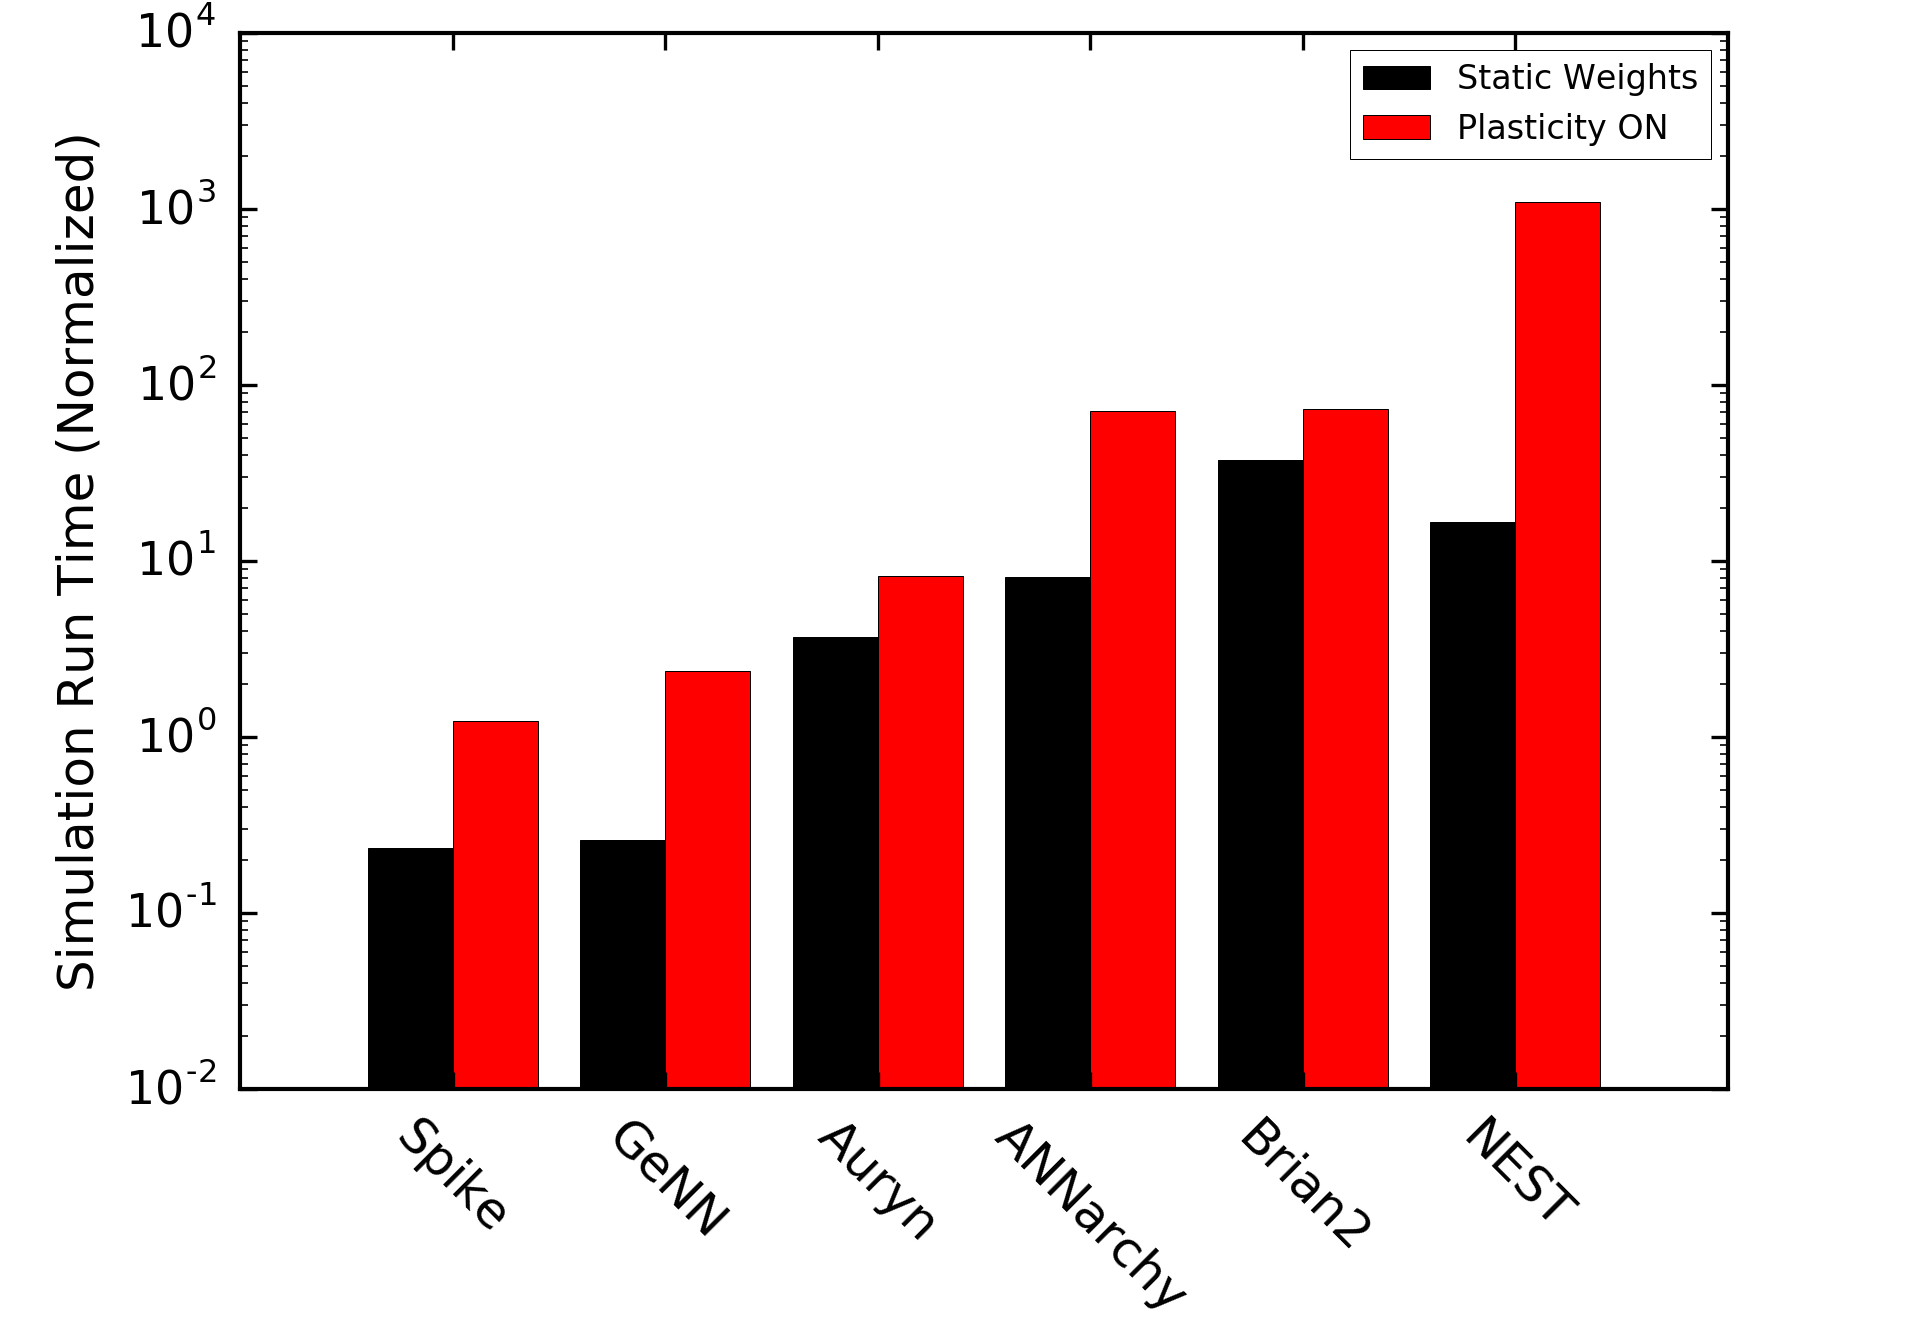
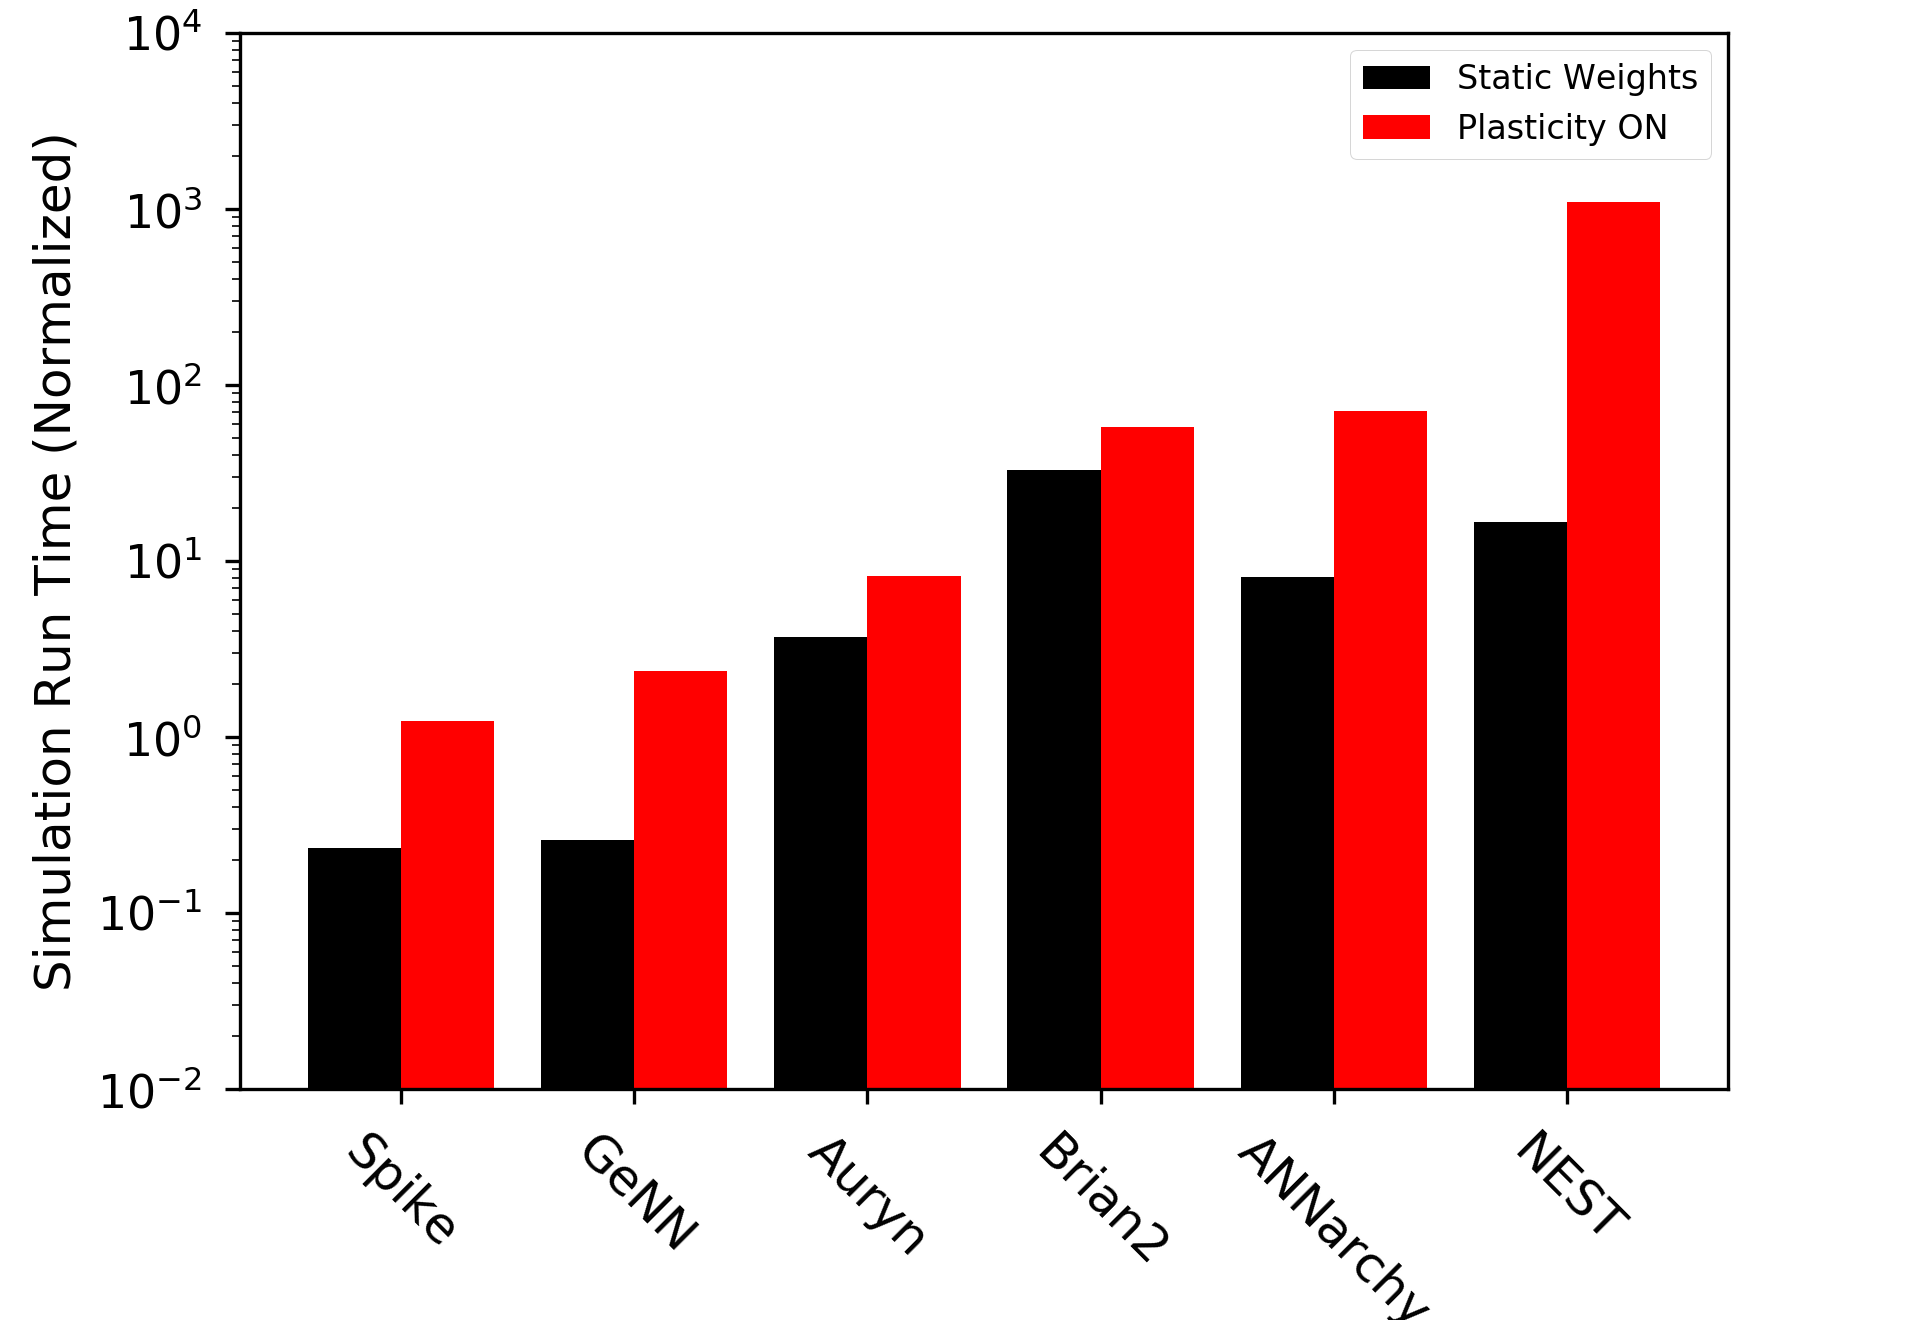
Adding standalone mode to Brian2 for speed & profile true for runtime only speed.

diff --git a/Benchmarks/Brunel/brian2/Brunel10K.py b/Benchmarks/Brunel/brian2/Brunel10K.py
@@ -27,6 +27,11 @@ record = False
 if (not fast):
     record = True
 
+# Setting standalone mode for speed
+set_device('cpp_standalone')
+mytimestep=0.1
+defaultclock.dt = mytimestep*ms
+
 # ###########################################
 # Network parameters
 # ###########################################
@@ -89,41 +94,41 @@ ie_mat = mmread('../ie.wmat')
 ii_mat = mmread('../ii.wmat')
 # EE
 if (plastic):
-    ee = Synapses(Pe, Pe, model=model, on_pre=pre_spike, on_post=post_spike)
+    ee = Synapses(Pe, Pe, model=model, on_pre=pre_spike, on_post=post_spike, method='euler')
     ee.connect(i=ee_mat.row, j=ee_mat.col)
     # ee.connect(i=np.random.randint(NE, size=(NE*(NE/10))), j=np.repeat(np.arange(NE), (NE/10)))
-    ee.w[:,:]='J_ex'
+    ee.w = J_ex
     ee.delay = delay
 else:
-    ee = Synapses(Pe, Pe, model='w:1', on_pre='v+=w')
+    ee = Synapses(Pe, Pe, model='w:1', on_pre='v+=w', method='euler')
     ee.connect(i=ee_mat.row, j=ee_mat.col)
     # ee.connect(i=np.random.randint(NE, size=(NE*(NE/10))), j=np.repeat(np.arange(NE), (NE/10)))
-    ee.w[:,:]='J_ex'
+    ee.w = J_ex
     ee.delay = delay
     
 # EI
-ei = Synapses(Pe, Pi, model='w:1',on_pre='v+=w')
+ei = Synapses(Pe, Pi, model='w:1',on_pre='v+=w', method='euler')
 # ei.connect(i=np.random.randint(NE, size=(NI*(NE/10))), j=np.repeat(np.arange(NI), (NE/10)))
 ei.connect(i=ei_mat.row, j=ei_mat.col)
-ei.w[:,:]='J_ex'
+ei.w= J_ex
 ei.delay = delay
 
 # II
-ii = Synapses(Pi, Pi, model='w:1',on_pre='v+=w')
+ii = Synapses(Pi, Pi, model='w:1',on_pre='v+=w', method='euler')
 ii.connect(i=ii_mat.row, j=ii_mat.col)
 # ii.connect(i=np.random.randint(NI, size=((NE+NI)*(NI/10))), j=np.repeat(np.arange(NE+NI), (NI/10)))
 ii.w = J_in
 ii.delay = delay
 
 # IE
-ie = Synapses(Pi, Pe, model='w:1',on_pre='v+=w')
+ie = Synapses(Pi, Pe, model='w:1',on_pre='v+=w', method='euler')
 ie.connect(i=ie_mat.row, j=ie_mat.col)
 # ii.connect(i=np.random.randint(NI, size=((NE+NI)*(NI/10))), j=np.repeat(np.arange(NE+NI), (NI/10)))
 ie.w = J_in
 ie.delay = delay
 
 # External Input
-noise = Synapses(poisson, P, model='w:1',on_pre='v+=w')
+noise = Synapses(poisson, P, model='w:1',on_pre='v+=w', method='euler')
 noise.connect(i=np.random.randint((NE+NI), size=((NE+NI)*((NE+NI)/10))), j=np.repeat(np.arange(NE+NI), ((NE+NI)/10)))
 noise.w = J_ex
 noise.delay = delay
@@ -138,11 +143,9 @@ if record:
 # ###########################################
 # Simulation
 # ###########################################
-run(0*second)
 print 'Start simulation'
-starttime = timeit.default_timer()
-run(simtime)
-totaltime = timeit.default_timer() - starttime
+run(simtime, profile=True)
+totaltime = device._last_run_time
 print('Simulation took ' + str(totaltime) + 's')
 
 if (fast):

diff --git a/Benchmarks/VogelsAbbott/brian2/COBA.py b/Benchmarks/VogelsAbbott/brian2/COBA.py
@@ -47,7 +47,7 @@ for o, a in optlist:
 from brian2 import *
 from scipy.io import mmread
 
-# Unable to run standalone mode due to weight loading
+# Setting standalone mode for speed
 set_device('cpp_standalone')
 
 mytimestep=0.1

diff --git a/Benchmarks/Brunel/_results/plotting.py b/Benchmarks/Brunel/_results/plotting.py
@@ -5,10 +5,10 @@ plt.style.use('seaborn-paper')
 
 simulators = [
         "Spike",
-	"GeNN",
+        "GeNN",
         "Auryn",
-        "ANNarchy",
         "Brian2",
+        "ANNarchy",
         "NEST",
         ]
 
